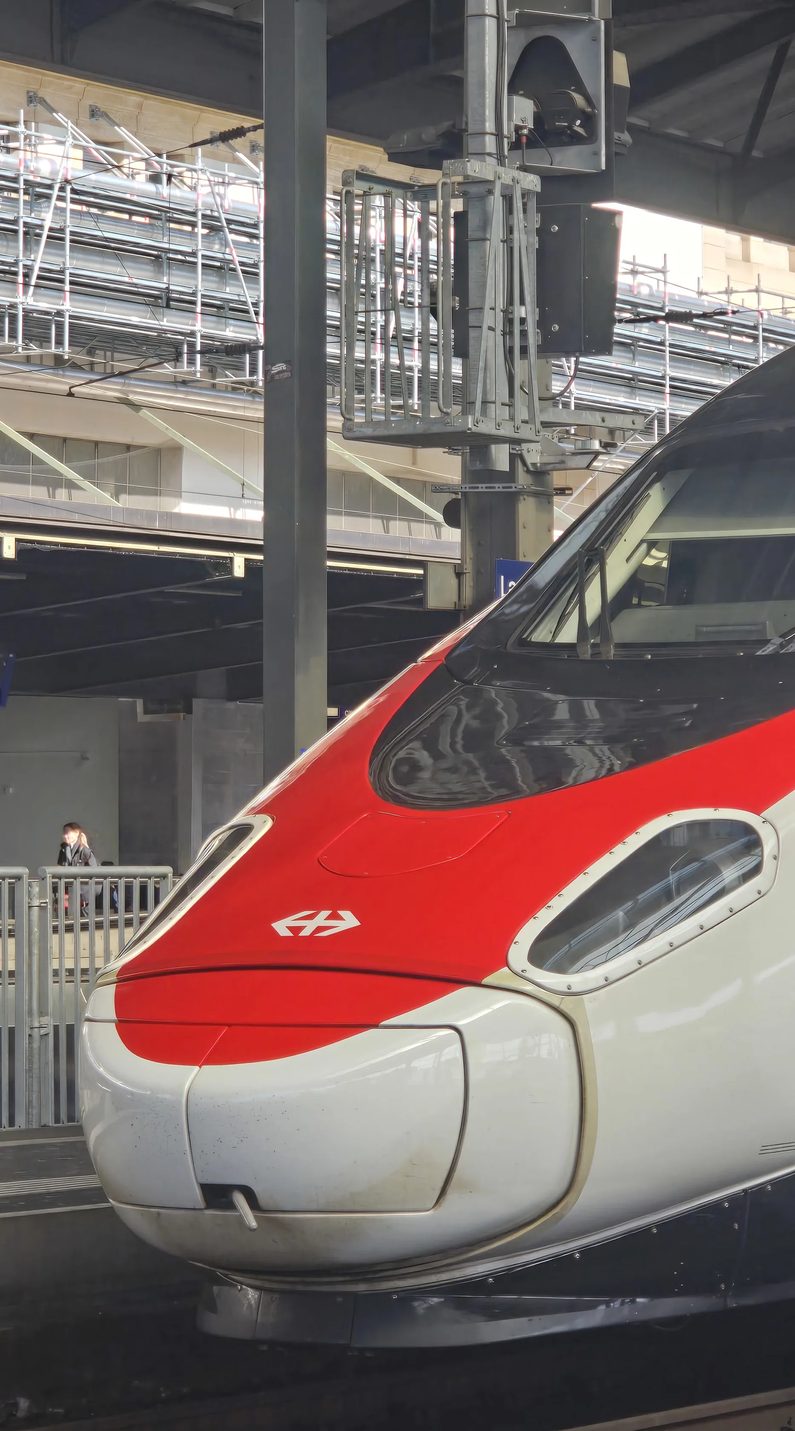
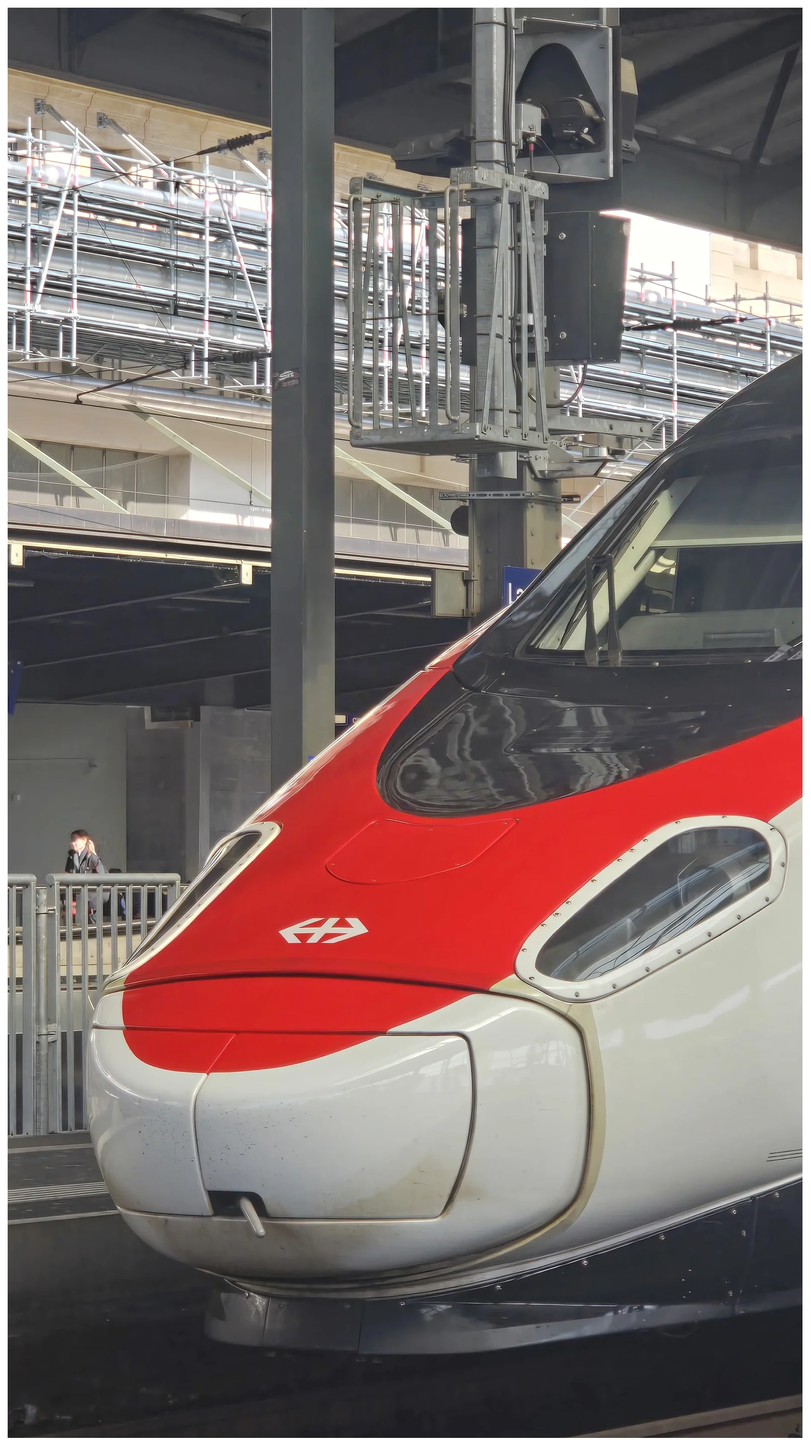
update 11/03/2026 12:07:10,53

Changed region(s): [[0.0, 0.0, 1.0, 1.0], [0.4039, 0.4957, 0.4349, 0.5267], [0.2796, 0.9294, 0.3107, 0.9604]]

diff --git a/assets/css/style.css b/assets/css/style.css
@@ -140,45 +140,25 @@ a{ color:inherit; text-decoration:none; }
 .card{
   break-inside:avoid;
   margin:0 0 20px;
-  border-radius:var(--radius);
+  border-radius:0;
   overflow:hidden;
-  background:linear-gradient(180deg, #f2ece2 0%, #ece5da 100%);
-  box-shadow:var(--shadow);
-  border:1px solid rgba(255,255,255,.88);
+  background:transparent;
+  box-shadow:none;
+  border:0;
   cursor:zoom-in;
-  transition:transform .35s ease, box-shadow .35s ease;
+  transition:transform .35s ease;
   position:relative;
   isolation:isolate;
 }
 
-.card::before{
-  content:"";
-  position:absolute;
-  inset:0;
-  z-index:0;
-  background:linear-gradient(110deg, rgba(255,255,255,.18) 18%, rgba(255,255,255,.62) 40%, rgba(255,255,255,.18) 62%);
-  background-size:220% 100%;
-  animation:shimmer 1.35s linear infinite;
-  transition:opacity .35s ease;
-}
-
-.card.is-loaded::before{
-  opacity:0;
-}
-
+.card::before,
 .card::after{
-  content:"";
-  position:absolute;
-  inset:0;
-  z-index:1;
-  pointer-events:none;
-  background:linear-gradient(180deg, rgba(255,255,255,.02), rgba(0,0,0,.03));
-  opacity:.65;
+  content:none;
 }
 
 .card:hover{
   transform:translateY(-4px);
-  box-shadow:var(--shadow-strong);
+  box-shadow:none;
 }
 
 .gallery-image{
@@ -188,7 +168,7 @@ a{ color:inherit; text-decoration:none; }
   width:100%;
   height:auto;
   vertical-align:middle;
-  background:#efe9df;
+  background:transparent;
   opacity:0;
   transform:scale(1.018);
   filter:blur(10px);
@@ -256,11 +236,11 @@ footer{
   overflow:auto;
   overscroll-behavior:contain;
   -webkit-overflow-scrolling:touch;
-  border-radius:24px;
+  border-radius:0;
   scrollbar-width:thin;
   scrollbar-color:rgba(21,21,21,.18) transparent;
-  background:rgba(255,255,255,.50);
-  box-shadow:inset 0 0 0 1px rgba(255,255,255,.35);
+  background:transparent;
+  box-shadow:none;
 }
 
 .lightbox__stage::-webkit-scrollbar{
@@ -288,12 +268,12 @@ footer{
   inset:auto;
   max-width:100%;
   max-height:100%;
-  border-radius:18px;
+  border-radius:0;
   filter:blur(10px);
   opacity:0;
   transform:scale(1.01);
   transition:opacity .18s ease, filter .18s ease, transform .18s ease;
-  box-shadow:0 28px 90px rgba(21,21,21,.10);
+  box-shadow:none;
   background:transparent;
   user-select:none;
   -webkit-user-select:none;
@@ -307,8 +287,8 @@ footer{
   height:auto;
   max-width:100%;
   max-height:100%;
-  border-radius:18px;
-  box-shadow:0 28px 90px rgba(21,21,21,.18);
+  border-radius:0;
+  box-shadow:none;
   background:transparent;
   user-select:none;
   -webkit-user-select:none;
@@ -444,7 +424,7 @@ footer{
 
   .card{
     margin-bottom:16px;
-    border-radius:18px;
+    border-radius:0;
   }
 
   footer{
@@ -466,7 +446,7 @@ footer{
   .lightbox__stage,
   .lightbox__thumb,
   .lightbox__image{
-    border-radius:16px;
+    border-radius:0;
   }
 
   .lightbox__close{
